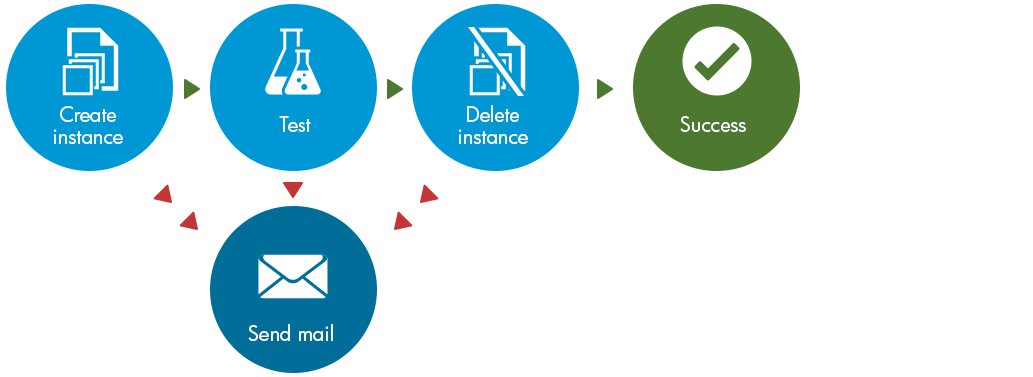
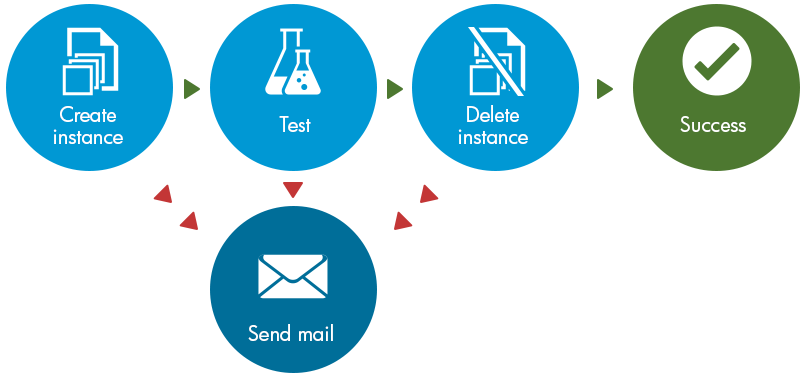
Fixed use cases images size

diff --git a/app/views/usecases.html b/app/views/usecases.html
@@ -4,7 +4,7 @@
         <div class="col-md-4 col-sm-12 col-xs-12">
             <p class="h3 text-center">{{$root.messages.useCasesITTitle}}</p>
             <p class="h4 text-center">{{$root.messages.useCasesITDesc}}</p>
-            <img class="img-responsive visible-sm visible-xs sm-iamge" src="images/usecases/use_cases_diagram1.png" alt="Use Case 1">
+            <img class="img-responsive visible-sm visible-xs sm-image small" src="images/usecases/use_cases_diagram1.png" alt="Use Case 1">
         </div>
         <div class="col-md-8 col-sm-12 col-xs-12 hidden-sm hidden-xs">
             <img class="img-responsive" src="images/usecases/use_cases_diagram1.png" alt="Use Case 1">
@@ -17,14 +17,14 @@
         <div class="col-md-4 col-sm-12 col-xs-12">
             <p class="h3 text-center">{{$root.messages.useCasesCloudTitle}}</p>
             <p class="h4 text-center">{{$root.messages.useCasesCloudDesc}}</p>
-            <img class="img-responsive visible-sm visible-xs sm-iamge" src="images/usecases/use_cases_diagram2.png" alt="Use Case 2">
+            <img class="img-responsive visible-sm visible-xs sm-image small" src="images/usecases/use_cases_diagram2.png" alt="Use Case 2">
         </div>
     </div>
     <div class="row row-centered use-case">
         <div class="col-md-4 col-sm-12 col-xs-12">
             <p class="h3 text-center">{{$root.messages.useCasesAppDeploymentTitle}}</p>
             <p class="h4 text-center">{{$root.messages.useCasesAppDeploymentDesc}}</p>
-            <img class="img-responsive visible-sm visible-xs sm-iamge" src="images/usecases/use_cases_diagram3.png" alt="Use Case 3">
+            <img class="img-responsive visible-sm visible-xs sm-image" src="images/usecases/use_cases_diagram3.png" alt="Use Case 3">
         </div>
         <div class="col-md-8 col-sm-12 col-xs-12 hidden-sm hidden-xs">
             <img class="img-responsive" src="images/usecases/use_cases_diagram3.png" alt="Use Case 3">
@@ -37,7 +37,7 @@
         <div class="col-md-4 col-sm-12 col-xs-12">
             <p class="h3 text-center">{{$root.messages.useCasesDevOpsTitle}}</p>
             <p class="h4 text-center">{{$root.messages.useCasesDevOpsDesc}}</p>
-            <img class="img-responsive visible-sm visible-xs sm-iamge" src="images/usecases/use_cases_diagram4.png" alt="Use Case 4">
+            <img class="img-responsive visible-sm visible-xs sm-image" src="images/usecases/use_cases_diagram4.png" alt="Use Case 4">
         </div>
     </div>
 </div>

diff --git a/app/styles/main.css b/app/styles/main.css
@@ -284,7 +284,7 @@ ul {
     border-bottom: 1px solid #8a9a7c;
 }
 
-.use-cases .use-case .sm-iamge {
+.use-cases .use-case .sm-image {
     margin-top: 40px;
 }
 
